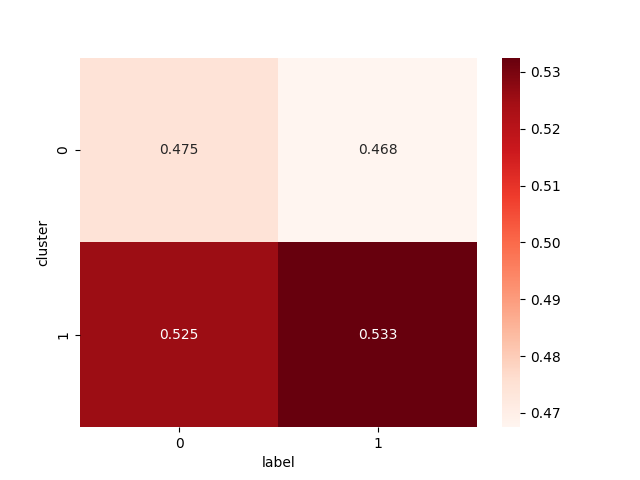
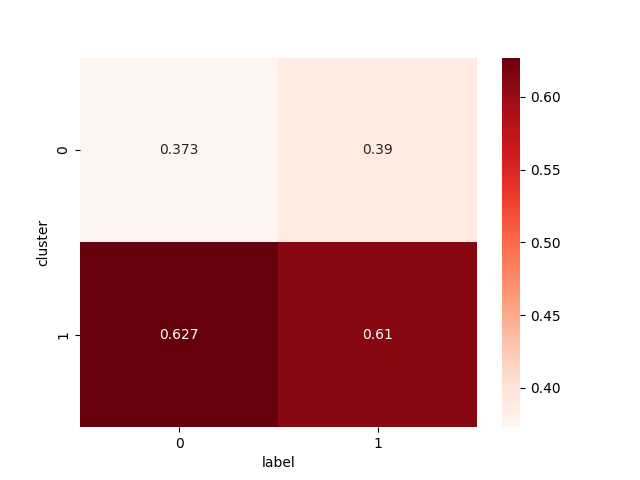
preference implement

diff --git a/preference.py b/preference.py
@@ -19,10 +19,10 @@ def model_parameter(flag,hidden):
             #'kernel': 'elu',
             'use_cos': True,
             'kernel': 'relu',
-            'd_model': 36,
-            'n_heads': 6,
-            'n_layers': 4,
-            'ffn_ratio': 4,
+            'd_model': 112,
+            'n_heads': 8,
+            'n_layers': 3,
+            'ffn_ratio': 8,
             'rezero': False,
             'ln_eps': 1e-5,
             'denom_eps': 1e-5,
@@ -46,10 +46,12 @@ def data_preference(cutoff,cutlen):
 
 def model_preference(arch,hidden,classes,cutlen,learningrate,target,epoch,heatmap):
     cnn_params = {
-        "out_dim" : 20,
-        "kernel" : 19,
-        "stride" : 3,
+        "out_dim" : 96,
+        "kernel" : 14,
+        "stride" : 2,
     }
+    #{'out_dim': 91, 'kernel': 14, 'stride': 2}
+    #out_dim': 112.0, 'kernel': 17, 'stride': 5, 'n_layers': 3, 'ffn_ratio': 8
 
     preference = {
         "lr" : learningrate,
@@ -62,12 +64,12 @@ def model_preference(arch,hidden,classes,cutlen,learningrate,target,epoch,heatma
     }
     if "GRU" in str(arch):
         model_params = model_parameter(0,hidden)
-        model = GRU(cnn_params,**model_params,**preference)
+        model = GRU(cnn_params,preference,**model_params)
     elif "ResNet" in str(arch):
-        model = ResNet(Bottleneck,[2,2,2,2],**preference)
+        model = ResNet(Bottleneck,[2,2,2,2],preference)
     elif "Transformer" in str(arch):
         model_params = model_parameter(2,hidden)
-        model = Transformer_clf_model(model_type='kernel', model_args=model_params,**preference)
+        model = Transformer_clf_model(cnn_params,model_type='kernel', model_args=model_params,**preference)
     elif "LSTM" in str(arch):
         model_params = model_parameter(0,hidden)
         model = LSTM(**model_params,**preference)

diff --git a/hyper_sens.py b/hyper_sens.py
@@ -32,7 +32,7 @@ def test(model, device, test_loader):
 ### varible ###
 target = "/z/kiku/Dataset/ID"
 inpath ="/z/kiku/Dataset/Target"
-arch = "GRU"
+arch = "Transformer"
 batch = 100
 minepoch = 40
 learningrate = 2e-3
@@ -62,19 +62,39 @@ train_generator,val_generator,test_generator = data.loader(batch)
 dataset_size = data.size()
 
 def objective(trial):
-    out_dim = trial.suggest_int('out_dim',20,128)
+    out_dim = int(trial.suggest_discrete_uniform('out_dim',16,128,16))
     kernel = trial.suggest_int('kernel',3,20)
     stride = trial.suggest_int('stride',2,5)
+    layers = trial.suggest_int('n_layers',3,8)
+    ratio = trial.suggest_int('ffn_ratio',3,8)
+    #model_params = {
+        #'hiddenDim' : hidden,
+        #'bidirect' : True,
+    #}
     model_params = {
-        'hiddenDim' : hidden,
-        'bidirect' : True,
+        #'use_cos': False,
+        #'kernel': 'elu',
+        'use_cos': True,
+        'kernel': 'relu',
+        'd_model': out_dim,
+        'n_heads': 8,
+        'n_layers': layers,
+        'ffn_ratio': ratio,
+        'rezero': False,
+        'ln_eps': 1e-5,
+        'denom_eps': 1e-5,
+        'bias': False,
+        'dropout': 0.2,    
+        'xavier': True,
     }
     cnn_params = {
         "out_dim" : out_dim,
         "kernel" : kernel,
         "stride" : stride,
     }
-    model = GRU(cnn_params,**model_params,**preference)
+    #model = GRU(cnn_params,**model_params,**preference)
+    model = Transformer_clf_model(cnn_params,model_type='kernel', model_args=model_params,**preference)
+
     if torch.cuda.is_available:device = torch.device('cuda' if torch.cuda.is_available() else 'cpu')
 
     loss_fn = nn.CrossEntropyLoss().to(device)

diff --git a/models/cosformer.py b/models/cosformer.py
@@ -5,28 +5,23 @@ import torch.nn as nn
 import numpy as np
 
 class Transformer_clf_model(MyProcess):
-    def __init__(self, model_type, model_args,lr,classes,cutlen,target,epoch,name,heatmap):
+    def __init__(self, cnn_params,model_type, model_args,preference):
         super(Transformer_clf_model, self).__init__()
-        self.lr = lr
+        self.lr = preference["lr"]
+        classes = preference["classes"]
+        cutlen = preference["cutlen"]
         self.loss_fn = nn.CrossEntropyLoss()
-        self.pref = {
-            "classes" : classes,
-            "target" : target,
-            "cutlen" : cutlen,
-            "epoch" : epoch,
-            "name" : name,
-            "heatmap" : heatmap,
-        }
+        self.pref = preference
+        dim,kernel,stride = cnn_params.values()
         
-        dim = model_args["d_model"] 
         self.conv = nn.Sequential(
-            nn.Conv1d(1,dim,kernel_size=19, padding=5, stride=3),
+            nn.Conv1d(1,dim,kernel_size=kernel, padding=3, stride=stride),
             nn.BatchNorm1d(dim),
             nn.ReLU(),
-            nn.MaxPool1d(kernel_size=2, padding=1, stride=2),
+            #nn.MaxPool1d(kernel_size=2, padding=1, stride=2),
         )
-        max_len = ((cutlen+5*2-19)//3 + 1)//2 + 2
-        #max_len = (cutlen+5*2-19)//3 + 2
+        max_len =  -(-(cutlen-kernel)//stride) + 2
+        
         self.cls_token = nn.Parameter(torch.rand(1,dim))
         if model_type == 'kernel':
             self.encoder = Kernel_transformer(**model_args,max_len=max_len)

diff --git a/models/resnet.py b/models/resnet.py
@@ -57,19 +57,12 @@ class Bottleneck(nn.Module):
 
 
 class ResNet(MyProcess):
-    def __init__(self, block, layers, cutlen,classes,lr,target,epoch,name,heatmap):
+    def __init__(self, block, layers, preference):
         super(ResNet, self).__init__()
-        self.lr = lr
-        self.classes = classes
+        self.lr = preference["lr"]
+        classes = preference["classes"]
         self.loss_fn = nn.CrossEntropyLoss()
-        self.pref = {
-            "classes" : classes,
-            "target" : target,
-            "cutlen" : cutlen,
-            "epoch" : epoch,
-            "name" : name,
-            "heatmap" : heatmap,
-        }
+        self.pref = preference
 
 		# first block
         self.chan1 = 20
@@ -91,6 +84,7 @@ class ResNet(MyProcess):
         self.layer2 = self._make_layer(block, 30, layers[1], stride=2)
         self.layer3 = self._make_layer(block, 45, layers[2], stride=2)
         self.layer4 = self._make_layer(block, 67, layers[3], stride=2)
+        #self.layer5 = self._make_layer(block, 67, layers[4], stride=2)
 
         self.labels = torch.zeros(1).cuda()
         self.cluster = torch.zeros(1,67).cuda()
@@ -135,6 +129,7 @@ class ResNet(MyProcess):
         x = self.layer2(x)
         x = self.layer3(x)
         x = self.layer4(x)
+        #x = self.layer5(x)
 
         x = self.avgpool(x)
         x = torch.flatten(x, 1)

diff --git a/models/gru.py b/models/gru.py
@@ -4,24 +4,19 @@ import torch
 import numpy as np
 
 class GRU(MyProcess):
-    def __init__(self,cnn_params,hiddenDim,lr,classes,bidirect,target,cutlen,epoch,name,heatmap):
+    def __init__(self,cnn_params,preference,hiddenDim,bidirect):
         super(GRU,self).__init__()
-        self.lr = lr
+        self.lr = preference["lr"]
+        classes = preference["classes"]
+        self.classes = classes
         self.loss_fn = nn.CrossEntropyLoss()
-        self.pref = {
-            "classes" : classes,
-            "target" : target,
-            "cutlen" : cutlen,
-            "epoch" : epoch,
-            "name" : name,
-            "heatmap" : heatmap,
-        }
+        self.pref = preference
         dim,kernel,stride = cnn_params.values()
 
         self.conv = nn.Sequential(
             nn.Conv1d(1,dim,kernel_size=kernel, padding=3, stride=stride),
             nn.BatchNorm1d(dim),
-            nn.ReLU(),
+            nn.GELU(),
             #nn.MaxPool1d(kernel_size=2, padding=1, stride=2),
         )
         #Model Architecture

diff --git a/main.py b/main.py
@@ -33,7 +33,7 @@ def main(target,inpath,arch, batch, minepoch, learningrate,cutlen,cutoff,classes
     """
     project_name = "Category-2-3"
     base_classes = 2
-    heatmap = False
+    heatmap = True
     ### Model ###
     model,useModel = model_preference(arch,hidden,classes,cutlen,learningrate,target_class,minepoch,heatmap)
     ### Dataset ###
@@ -58,12 +58,11 @@ def main(target,inpath,arch, batch, minepoch, learningrate,cutlen,cutoff,classes
     wandb_logger = logger_preference(project_name,classes,dataset_size,useModel,cutlen,minepoch,target_class) 
     ### Train ###
     trainer = pl.Trainer(
-        max_epochs=(minepoch+5),
-        min_epochs=minepoch,
+        max_epochs=minepoch,
         accelerator="gpu",
         devices=torch.cuda.device_count(),
         logger=wandb_logger,
-        callbacks=[Garbage_collector_callback()],
+        #callbacks=[Garbage_collector_callback()],
         #callbacks=[model_checkpoint],
     )
     trainer.fit(model,datamodule=data_module)

diff --git a/process/process.py b/process/process.py
@@ -54,14 +54,13 @@ class MyProcess(pl.LightningModule):
 
     def test_epoch_end(self,outputs):
         ### Valuables ###
-        n_class,target,cutlen,epoch,name,heatmap = self.pref.values()
-
+        _,cutlen,n_class,epoch,_,name,heatmap = self.pref.values()
         ### Merics ###
         tp,fp,fn,tn = self.metric.values()
         self.log("test_Accuracy",self.acc.mean())
         self.log("test_Accuracy2",(tp+tn)/(tp+tn+fp+fn))
         self.log("test_Recall",(tp)/(tp+fp))
-        self.log("test_Precision",(tp)/(tp+fp))
+        self.log("test_Precision",(tp)/(tp+fn))
 
         ### K-Means ###
         if heatmap:
